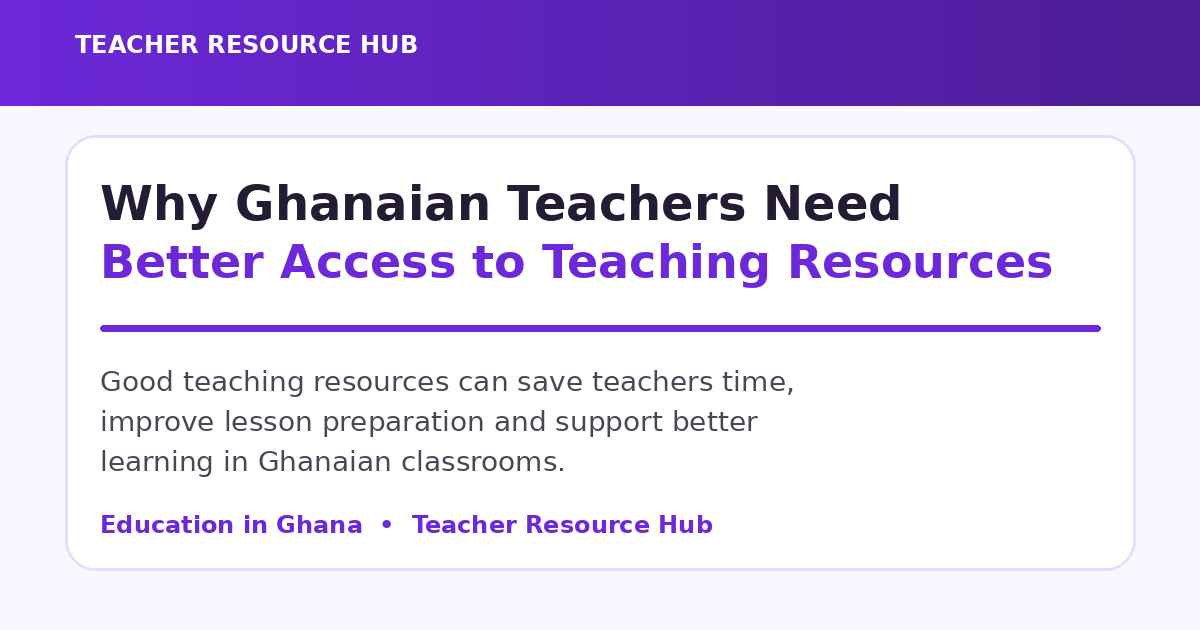
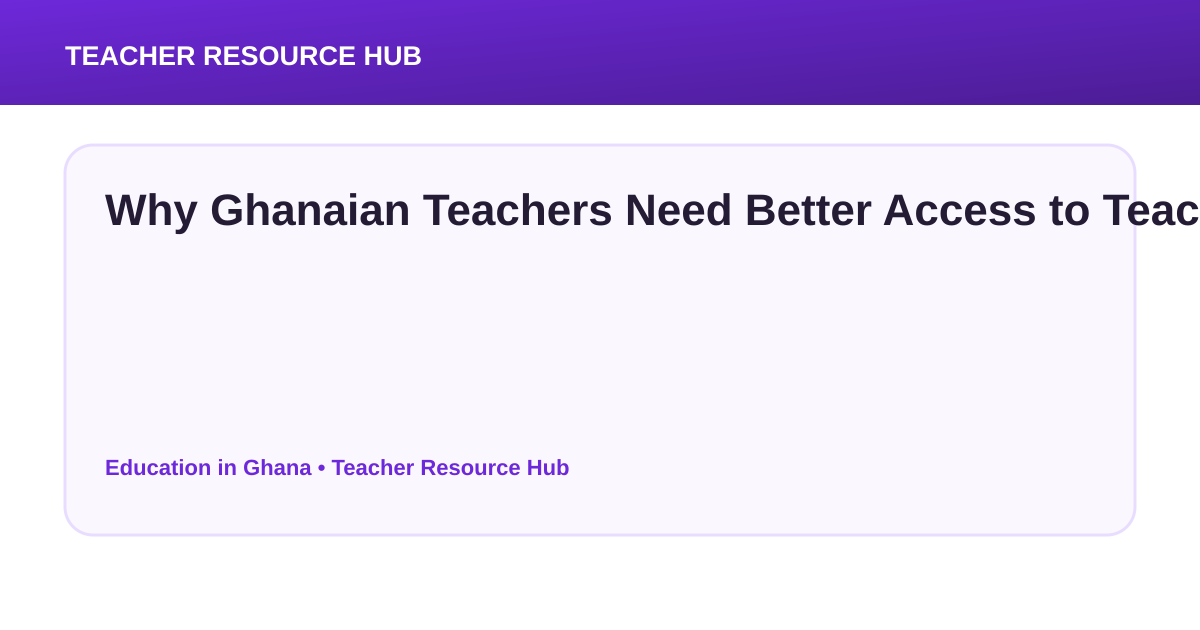
Auto-generate article share previews

diff --git a/share/why-ghanaian-teachers-need-better-access-to-teaching-resources.html b/share/why-ghanaian-teachers-need-better-access-to-teaching-resources.html
@@ -2,37 +2,77 @@
 <html lang="en">
 <head>
 <meta charset="UTF-8">
-<meta name="viewport" content="width=device-width, initial-scale=1.0">
+
 <title>Why Ghanaian Teachers Need Better Access to Teaching Resources | Teacher Resource Hub</title>
-<meta name="description" content="Good teaching resources can save teachers time, improve lesson preparation and support better learning in Ghanaian classrooms.">
-<link rel="canonical" href="https://1998issu-beep.github.io/Teachers-Resource-Hub/article.html?slug=why-ghanaian-teachers-need-better-access-to-teaching-resources">
-<meta property="og:type" content="article">
-<meta property="og:title" content="Why Ghanaian Teachers Need Better Access to Teaching Resources">
-<meta property="og:description" content="Good teaching resources can save teachers time, improve lesson preparation and support better learning in Ghanaian classrooms.">
-<meta property="og:url" content="https://1998issu-beep.github.io/Teachers-Resource-Hub/share/why-ghanaian-teachers-need-better-access-to-teaching-resources.html">
-<meta property="og:image" content="https://1998issu-beep.github.io/Teachers-Resource-Hub/images/articles/why-ghanaian-teachers-need-better-access-to-teaching-resources.png">
-<meta property="og:image:width" content="1200">
-<meta property="og:image:height" content="630">
-<meta property="og:image:alt" content="Why Ghanaian Teachers Need Better Access to Teaching Resources">
-<meta property="og:site_name" content="Teacher Resource Hub">
-<meta name="twitter:card" content="summary_large_image">
-<meta name="twitter:title" content="Why Ghanaian Teachers Need Better Access to Teaching Resources">
-<meta name="twitter:description" content="Good teaching resources can save teachers time, improve lesson preparation and support better learning in Ghanaian classrooms.">
-<meta name="twitter:image" content="https://1998issu-beep.github.io/Teachers-Resource-Hub/images/articles/why-ghanaian-teachers-need-better-access-to-teaching-resources.png">
-<meta name="twitter:image:alt" content="Why Ghanaian Teachers Need Better Access to Teaching Resources">
-<meta http-equiv="refresh" content="0;url=https://1998issu-beep.github.io/Teachers-Resource-Hub/article.html?slug=why-ghanaian-teachers-need-better-access-to-teaching-resources">
+
+<meta name="description"
+      content="Good teaching resources can save teachers time, improve lesson preparation and support better learning in Ghanaian classrooms.">
+
+<meta property="og:type"
+      content="article">
+
+<meta property="og:title"
+      content="Why Ghanaian Teachers Need Better Access to Teaching Resources">
+
+<meta property="og:description"
+      content="Good teaching resources can save teachers time, improve lesson preparation and support better learning in Ghanaian classrooms.">
+
+<meta property="og:image"
+      content="https://1998issu-beep.github.io/Teachers-Resource-Hub/images/articles/why-ghanaian-teachers-need-better-access-to-teaching-resources.png">
+
+<meta property="og:url"
+      content="https://1998issu-beep.github.io/Teachers-Resource-Hub/share/why-ghanaian-teachers-need-better-access-to-teaching-resources.html">
+
+<meta property="og:site_name"
+      content="Teacher Resource Hub">
+
+<meta name="twitter:card"
+      content="summary_large_image">
+
+<meta name="twitter:title"
+      content="Why Ghanaian Teachers Need Better Access to Teaching Resources">
+
+<meta name="twitter:description"
+      content="Good teaching resources can save teachers time, improve lesson preparation and support better learning in Ghanaian classrooms.">
+
+<meta name="twitter:image"
+      content="https://1998issu-beep.github.io/Teachers-Resource-Hub/images/articles/why-ghanaian-teachers-need-better-access-to-teaching-resources.png">
+
+<link rel="canonical"
+      href="https://1998issu-beep.github.io/Teachers-Resource-Hub/share/why-ghanaian-teachers-need-better-access-to-teaching-resources.html">
+
+<meta http-equiv="refresh"
+      content="0;url=https://1998issu-beep.github.io/Teachers-Resource-Hub/article.html?slug=why-ghanaian-teachers-need-better-access-to-teaching-resources">
+
+<script>
+window.location.replace("https://1998issu-beep.github.io/Teachers-Resource-Hub/article.html?slug=why-ghanaian-teachers-need-better-access-to-teaching-resources");
+</script>
+
 <style>
-body{font-family:Arial,sans-serif;margin:0;padding:40px 20px;background:#faf7ff;color:#241b35;text-align:center}
-main{max-width:700px;margin:8vh auto;background:#fff;padding:35px;border:1px solid #e9ddff;border-radius:20px}
-a{color:#6d28d9;font-weight:700}
+body {
+  font-family: Arial, sans-serif;
+  padding: 40px 20px;
+  text-align: center;
+  color: #241b35;
+}
+a {
+  color: #6d28d9;
+}
 </style>
+
 </head>
+
 <body>
-<main>
+
 <h1>Why Ghanaian Teachers Need Better Access to Teaching Resources</h1>
-<p>Opening the article…</p>
-<p><a href="https://1998issu-beep.github.io/Teachers-Resource-Hub/article.html?slug=why-ghanaian-teachers-need-better-access-to-teaching-resources">Read the full article</a></p>
-</main>
-<script>window.location.replace("https://1998issu-beep.github.io/Teachers-Resource-Hub/article.html?slug=why-ghanaian-teachers-need-better-access-to-teaching-resources");</script>
+
+<p>Good teaching resources can save teachers time, improve lesson preparation and support better learning in Ghanaian classrooms.</p>
+
+<p>
+<a href="https://1998issu-beep.github.io/Teachers-Resource-Hub/article.html?slug=why-ghanaian-teachers-need-better-access-to-teaching-resources">
+Read the full article
+</a>
+</p>
+
 </body>
-  </html>
+</html>
